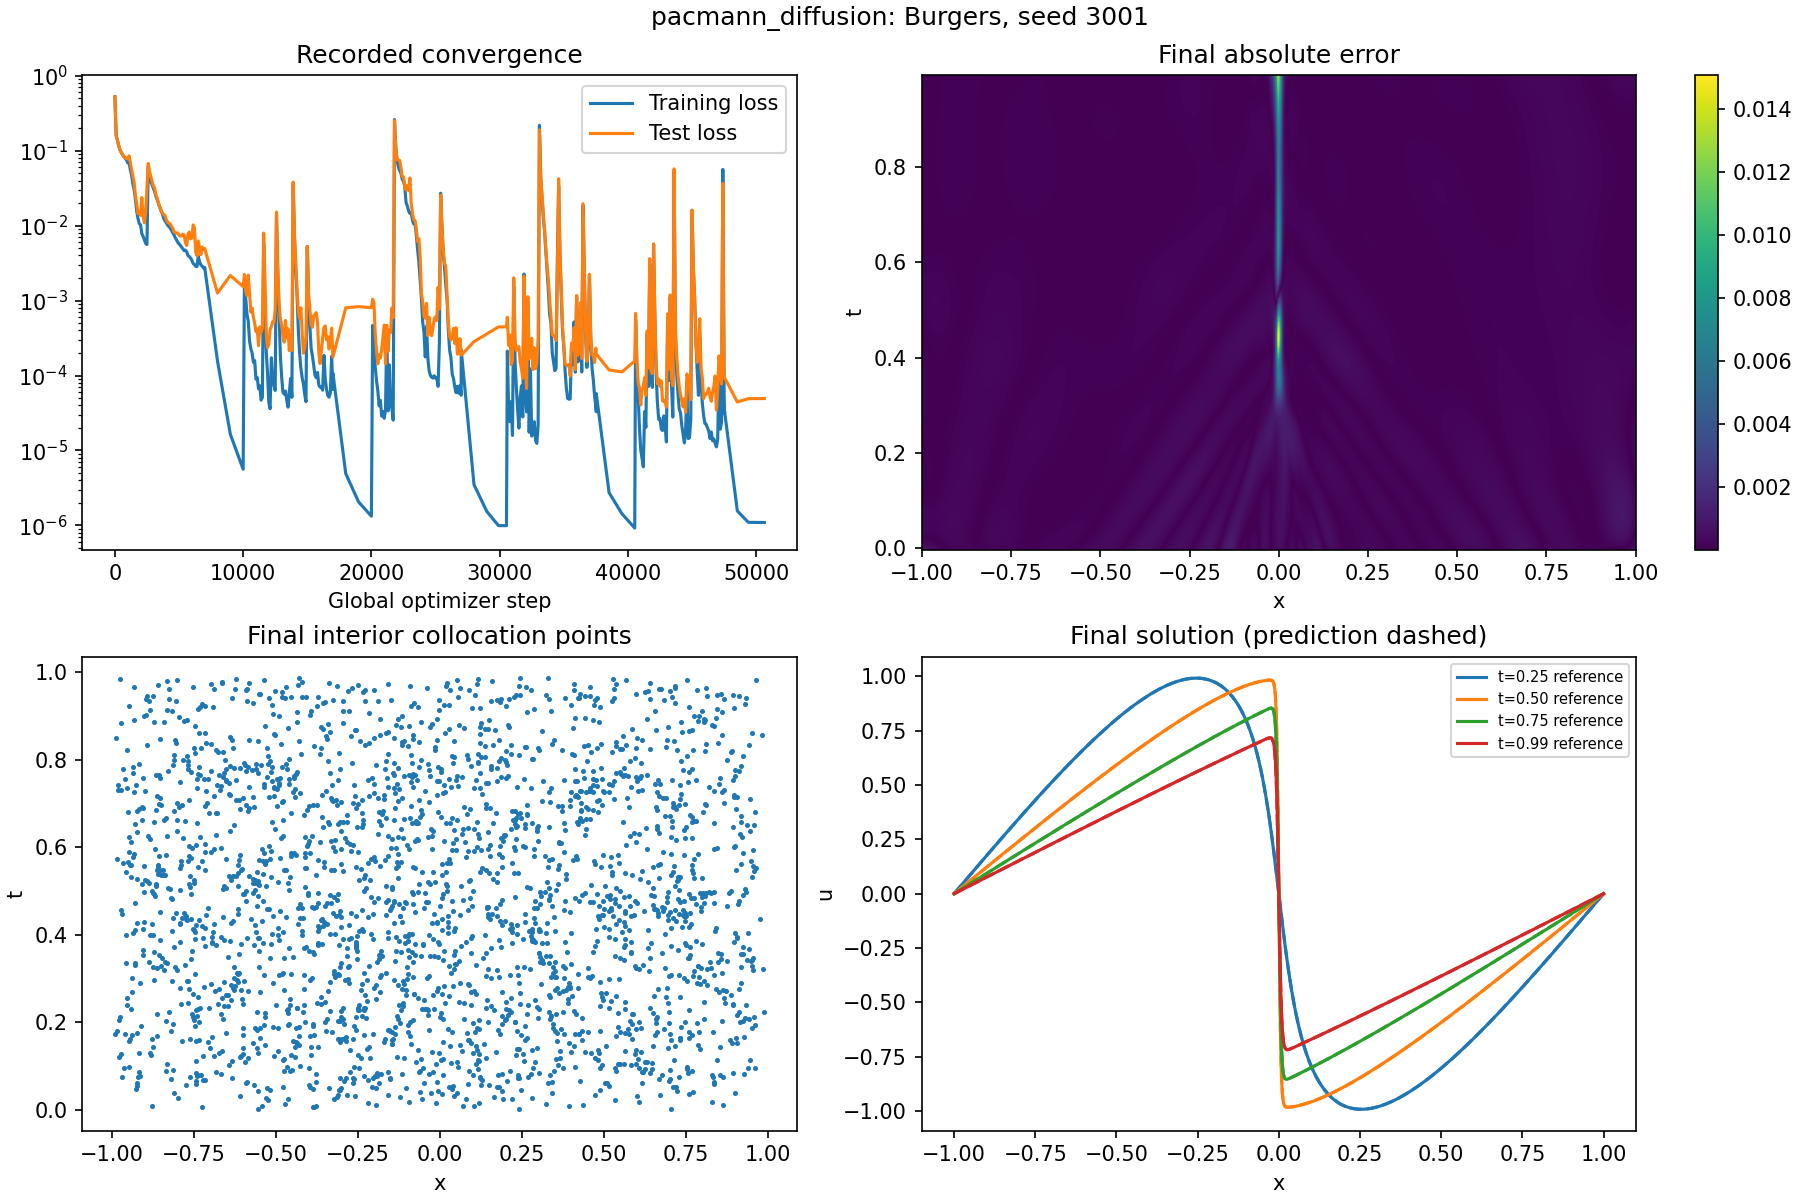
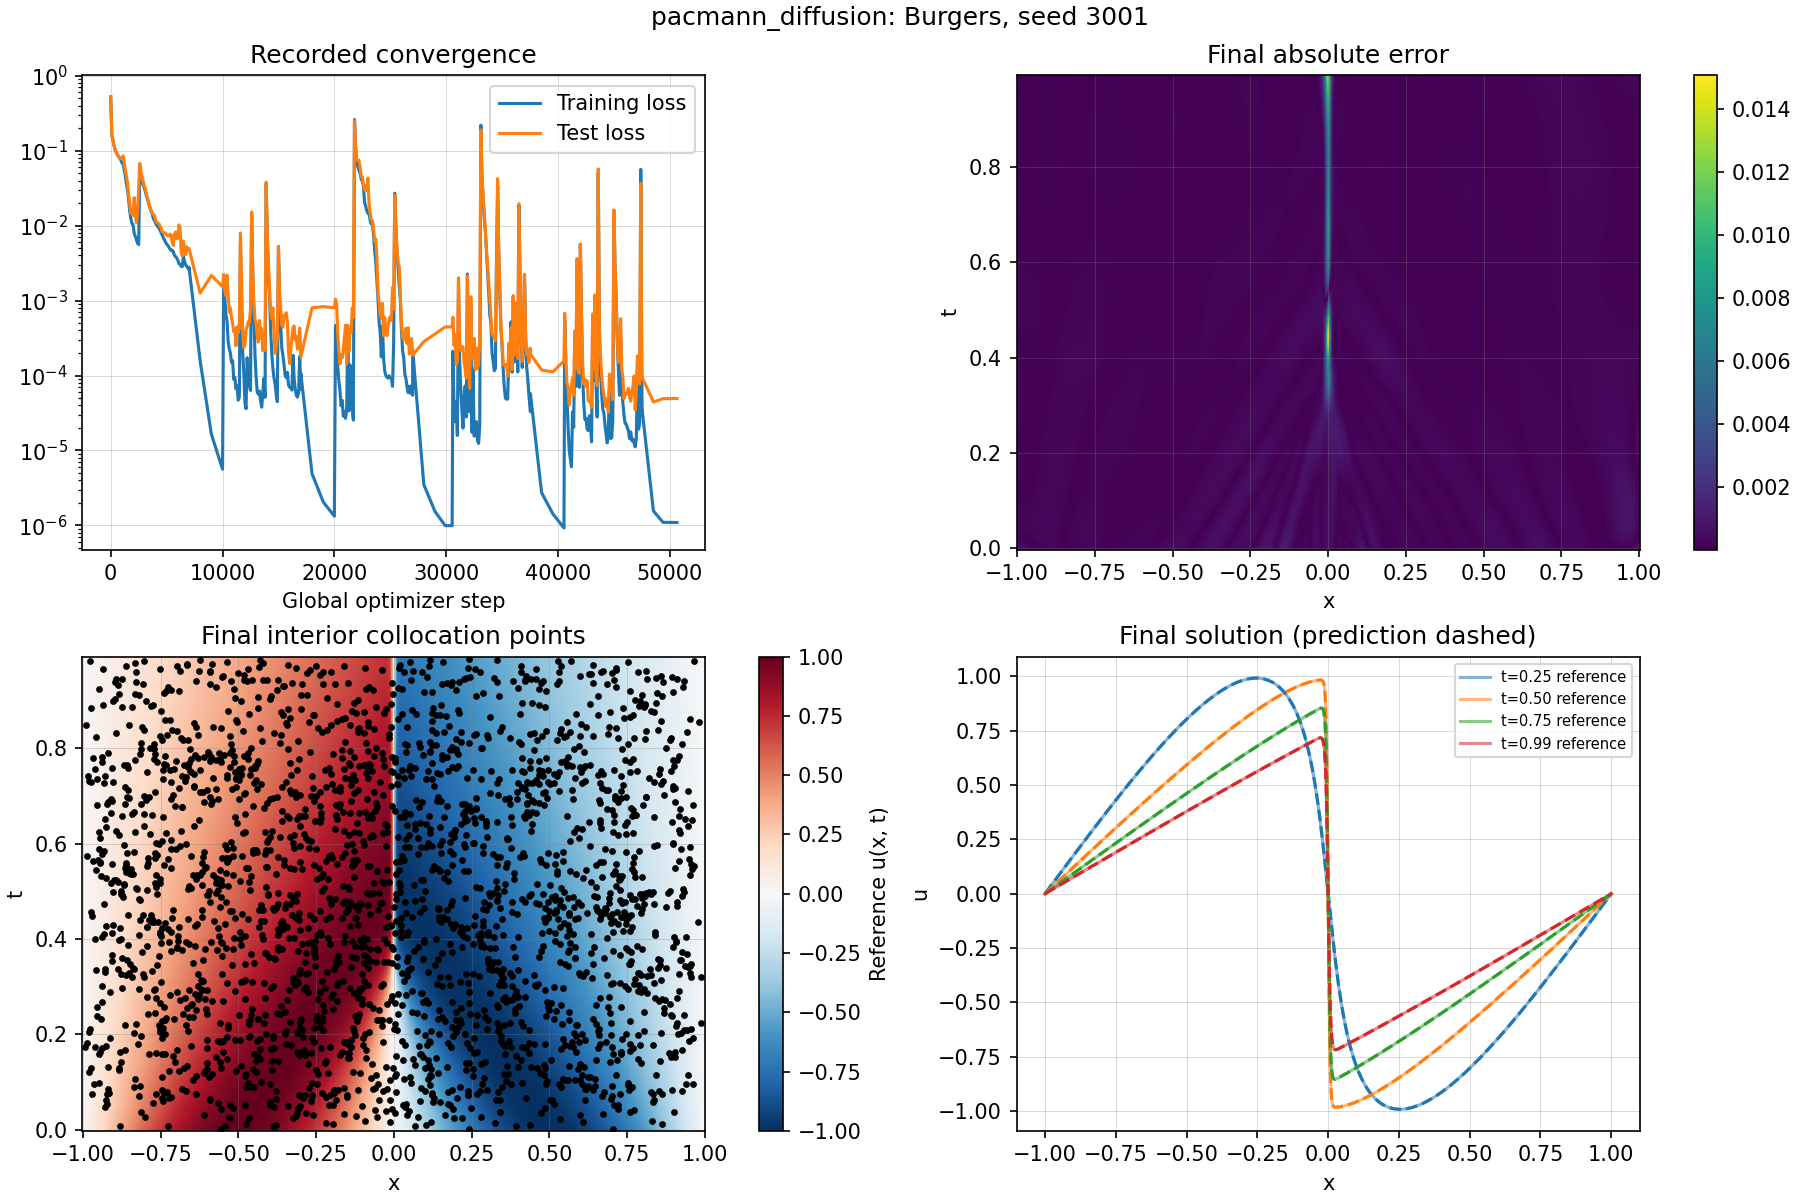
fix(plots): clarify Burgers diagnostics and initial collocation figure

diff --git a/scripts/post_processing/analyze_burgers.py b/scripts/post_processing/analyze_burgers.py
@@ -169,19 +169,31 @@ def plot_diagnostics(path, x, times, reference, predicted, history, points, conf
     axes[0, 1].set(xlabel="x", ylabel="t", title="Final absolute error")
     fig.colorbar(image, ax=axes[0, 1])
 
-    # Display the final interior population without boundary/initial constraints.
-    axes[1, 0].scatter(points[:, 0], points[:, 1], s=2)
+    # Place the final interior population over the reference solution.
+    solution = axes[1, 0].pcolormesh(
+        x, times, reference, shading="auto", cmap="RdBu_r", vmin=-1, vmax=1, zorder=0
+    )
+    fig.colorbar(solution, ax=axes[1, 0], label="Reference u(x, t)")
+    axes[1, 0].scatter(points[:, 0], points[:, 1], s=5, color="black", zorder=3)
     axes[1, 0].set(xlabel="x", ylabel="t", title="Final interior collocation points")
 
     # Compare representative Burgers slices at the nearest saved evaluation times.
     for time in (0.25, 0.50, 0.75, 0.99):
         index = int(np.argmin(np.abs(times - time)))
         (line,) = axes[1, 1].plot(
-            x, reference[index], label=f"t={times[index]:.2f} reference"
+            x,
+            reference[index],
+            label=f"t={times[index]:.2f} reference",
+            alpha=0.55,
+            zorder=2,
         )
-        axes[1, 1].plot(x, predicted[index], "--", color=line.get_color())
+        axes[1, 1].plot(x, predicted[index], "--", color=line.get_color(), zorder=3)
     axes[1, 1].set(xlabel="x", ylabel="u", title="Final solution (prediction dashed)")
     axes[1, 1].legend(fontsize=7)
+    # Keep thin grids above heatmaps and below curves and points.
+    for ax in axes.flat:
+        ax.set_axisbelow("line")
+        ax.grid(True, linewidth=0.4, color="0.5", alpha=0.35)
     fig.suptitle(
         f"{config['selected_method']}: Burgers, seed {config['selected_seed']}"
     )

diff --git a/scripts/plot_burgers_initial_points.py b/scripts/plot_burgers_initial_points.py
@@ -1,0 +1,46 @@
+"""Plot the saved Burgers reference beneath the initial interior collocation points."""
+
+from pathlib import Path
+
+import matplotlib
+import numpy as np
+
+# Render the documentation figure without an interactive display.
+matplotlib.use("Agg")
+import matplotlib.pyplot as plt
+
+ROOT = Path(__file__).resolve().parents[1]
+RUN_DIR = (
+    ROOT / "output/burgers_sigma_tuning_n1024_baseline/burgers/pacmann_adam/seed_3000"
+)
+OUTPUT_PATH = ROOT / "docs/burgers_initial_collocation.png"
+
+
+def main():
+    """Save the reference solution with the selected run's initial Hammersley points."""
+    # Read the common reference grid and the initial interior population.
+    with np.load(RUN_DIR / "predictions.npz", allow_pickle=False) as data:
+        x = np.unique(data["coordinates"][:, 0])
+        times = np.unique(data["coordinates"][:, 1])
+        reference = data["reference"].reshape(len(times), len(x))
+    with np.load(RUN_DIR / "points/initial.npz", allow_pickle=False) as data:
+        points = data["interior"]
+
+    # Overlay the initial points on the space-time reference solution.
+    fig, ax = plt.subplots(figsize=(8, 5), constrained_layout=True)
+    solution = ax.pcolormesh(
+        x, times, reference, shading="auto", cmap="RdBu_r", vmin=-1, vmax=1, zorder=0
+    )
+    ax.scatter(points[:, 0], points[:, 1], s=5, color="black", zorder=3)
+    fig.colorbar(solution, ax=ax, label="Reference u(x, t)")
+    ax.set(
+        xlabel="x", ylabel="t", title="Burgers solution and initial Hammersley points"
+    )
+    ax.set_axisbelow("line")
+    ax.grid(True, linewidth=0.4, color="0.5", alpha=0.35)
+    fig.savefig(OUTPUT_PATH, dpi=200)
+    plt.close(fig)
+
+
+if __name__ == "__main__":
+    main()
